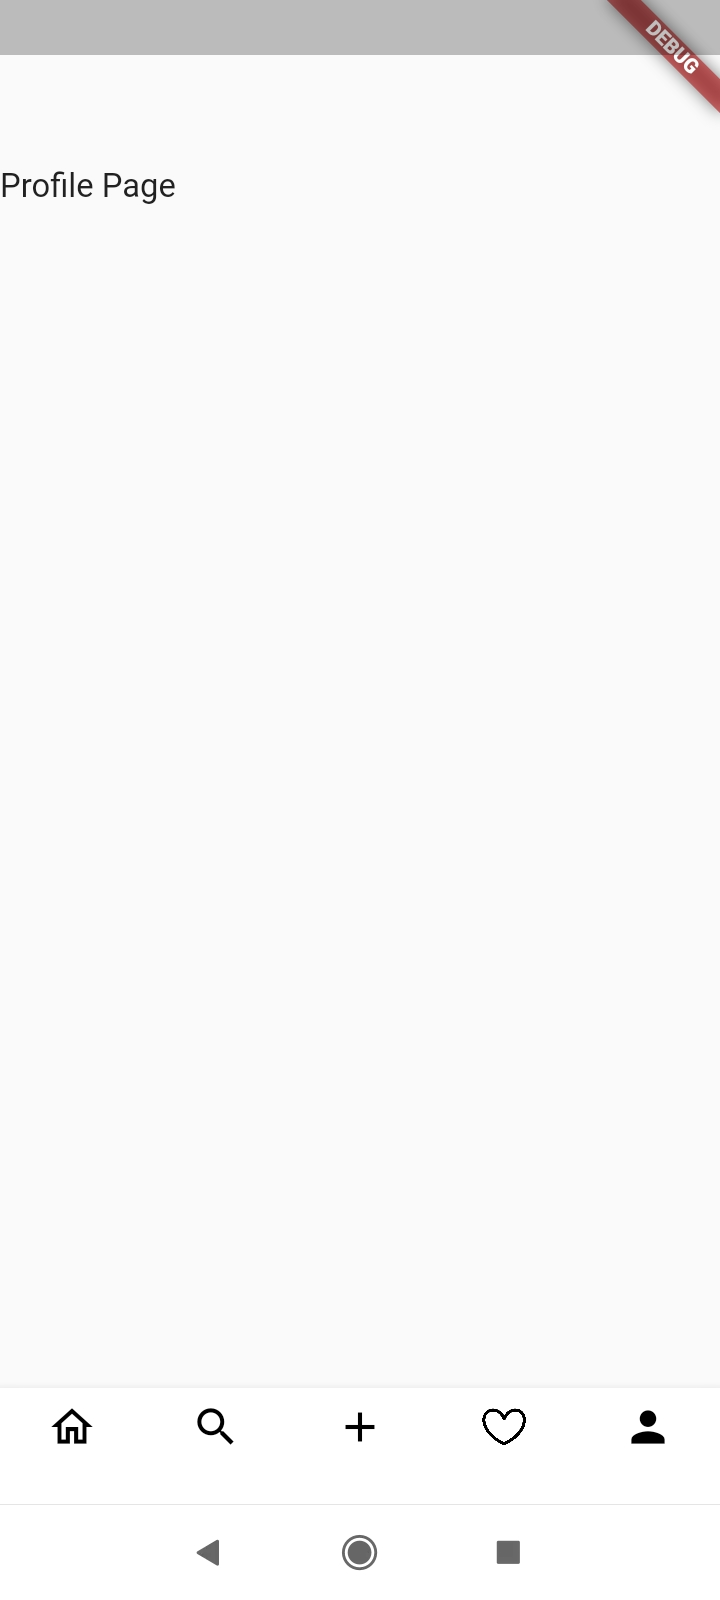
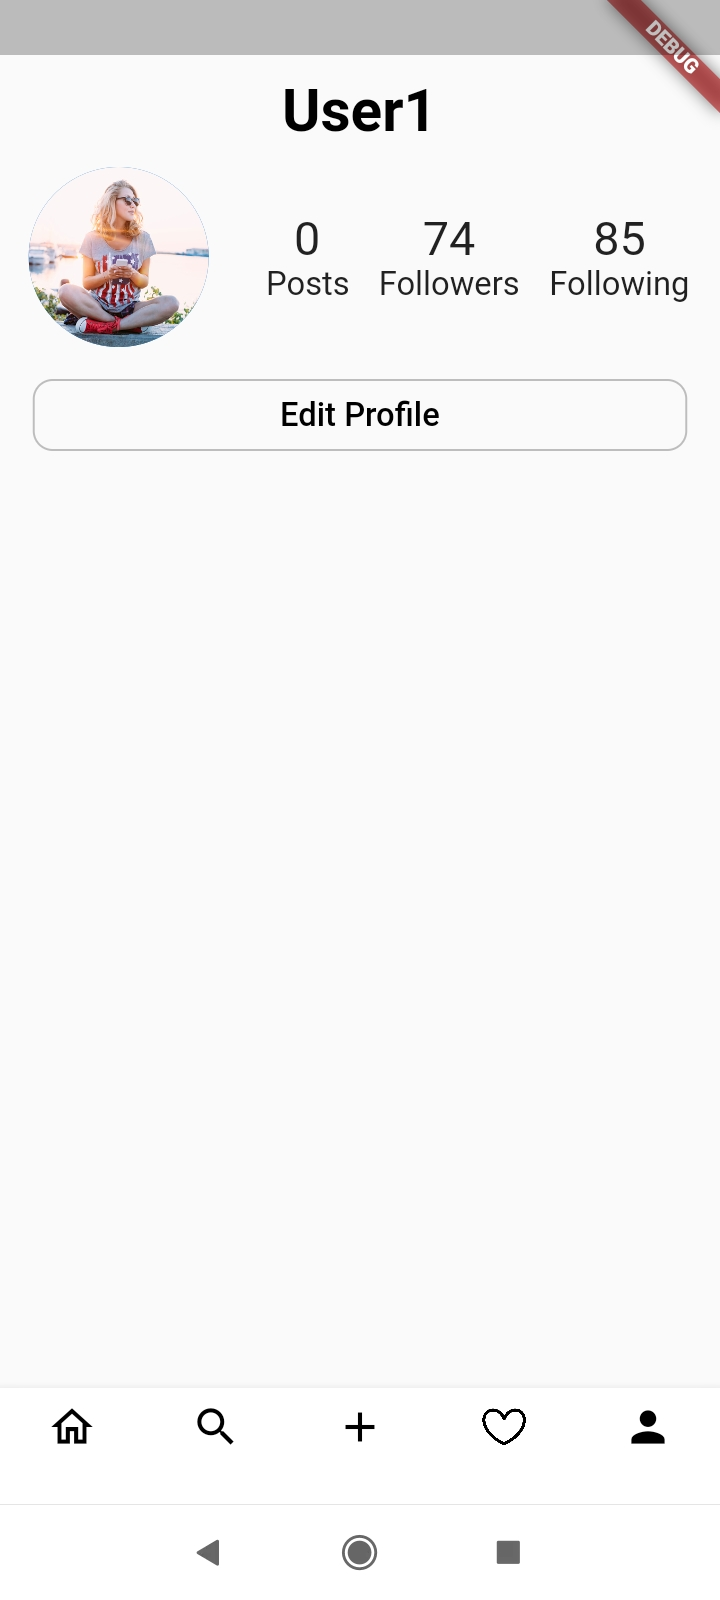
Updated README.md

diff --git a/lib/Screens/profile_page.dart b/lib/Screens/profile_page.dart
@@ -34,15 +34,7 @@ class _ProfilePageState extends State<ProfilePage> {
 
       body: ListView(
         children: [
-          Center(
-            child: Text(
-              widget.username,
-              style: TextStyle(
-                fontSize: 25.0,
-                fontWeight: FontWeight.bold
-              ),
-            ),
-          ),
+
           Padding(
             padding: const EdgeInsets.only(bottom: 10.0),
             child: Row(
@@ -96,12 +88,22 @@ class _ProfilePageState extends State<ProfilePage> {
             Expanded(child: Container(), flex: 1,),
           ],
         ),
-        
+
       ]
       ),
       appBar: AppBar(
         elevation: 0,
         backgroundColor: Colors.transparent,
+        title: Center(
+          child: Text(
+            widget.username,
+            style: TextStyle(
+                fontSize: 25.0,
+                fontWeight: FontWeight.bold,
+              color: Colors.black
+            ),
+          ),
+        ),
       ),
     );
   }

diff --git a/README.md b/README.md
@@ -13,3 +13,4 @@ I have learnt how to make the UI of an app and am now learning Firebase to work 
 <br>
 <img src="readmeAssets\Flutter_pics\home1.jpg" width=30%>  <img src="readmeAssets\Flutter_pics\home2.jpg" width=30%>
 <br>
+<img src="readmeAssets\Flutter_pics\explore.jpg" width=30%>  <img src="readmeAssets\Flutter_pics\profile.jpg" width=30%>
